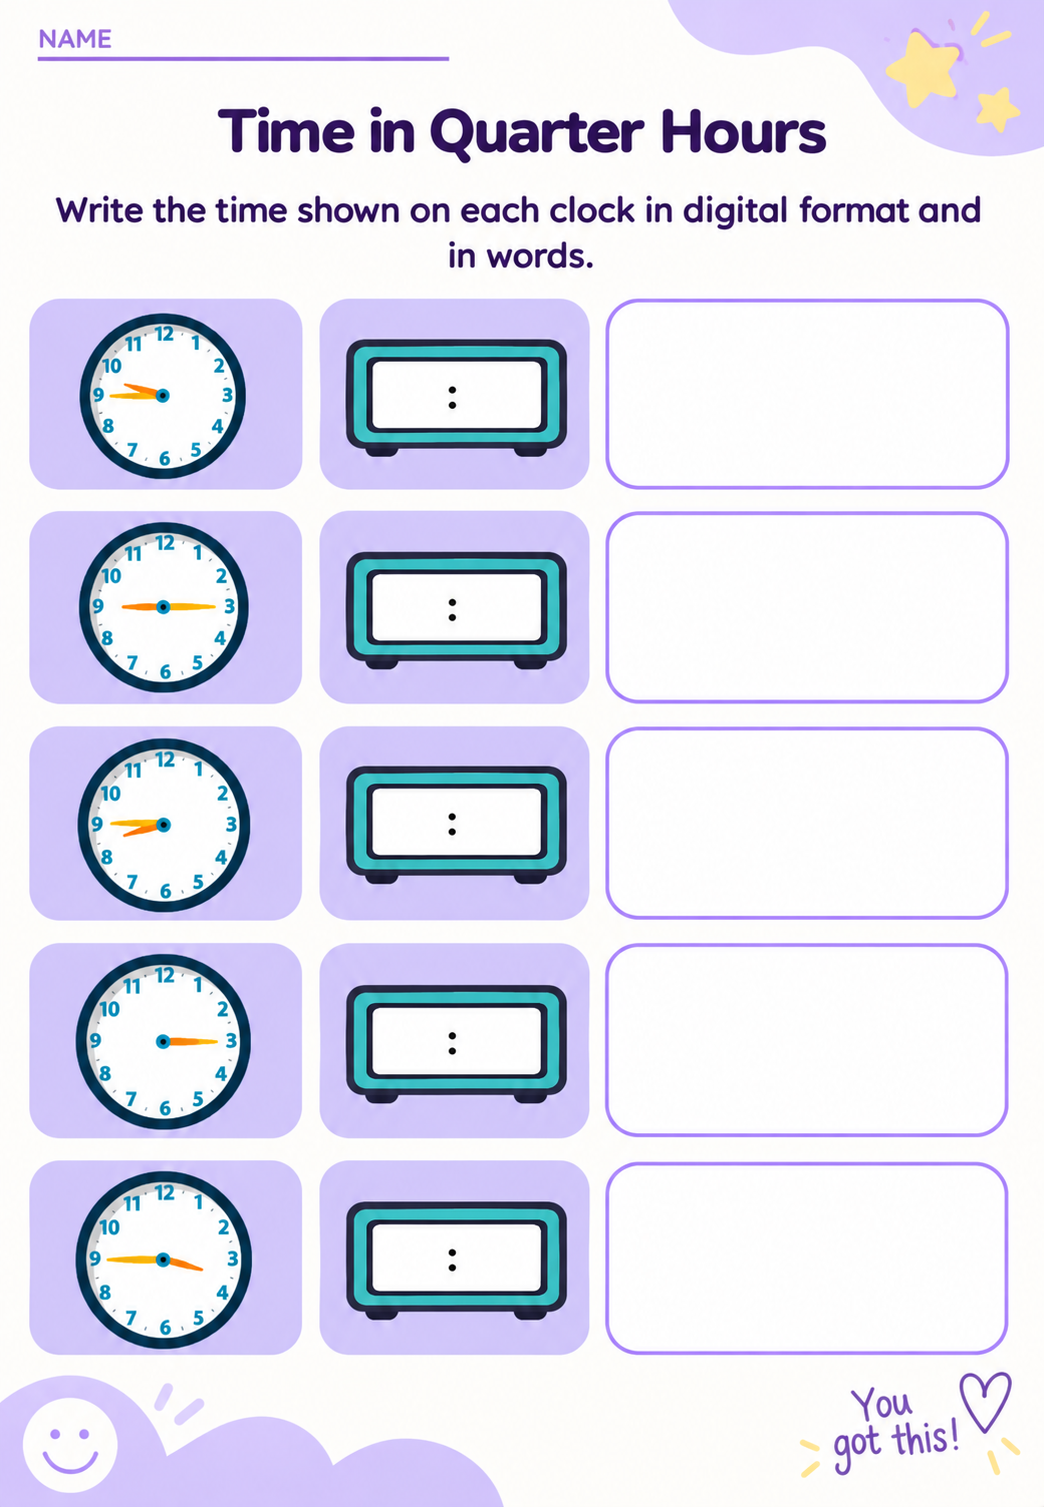
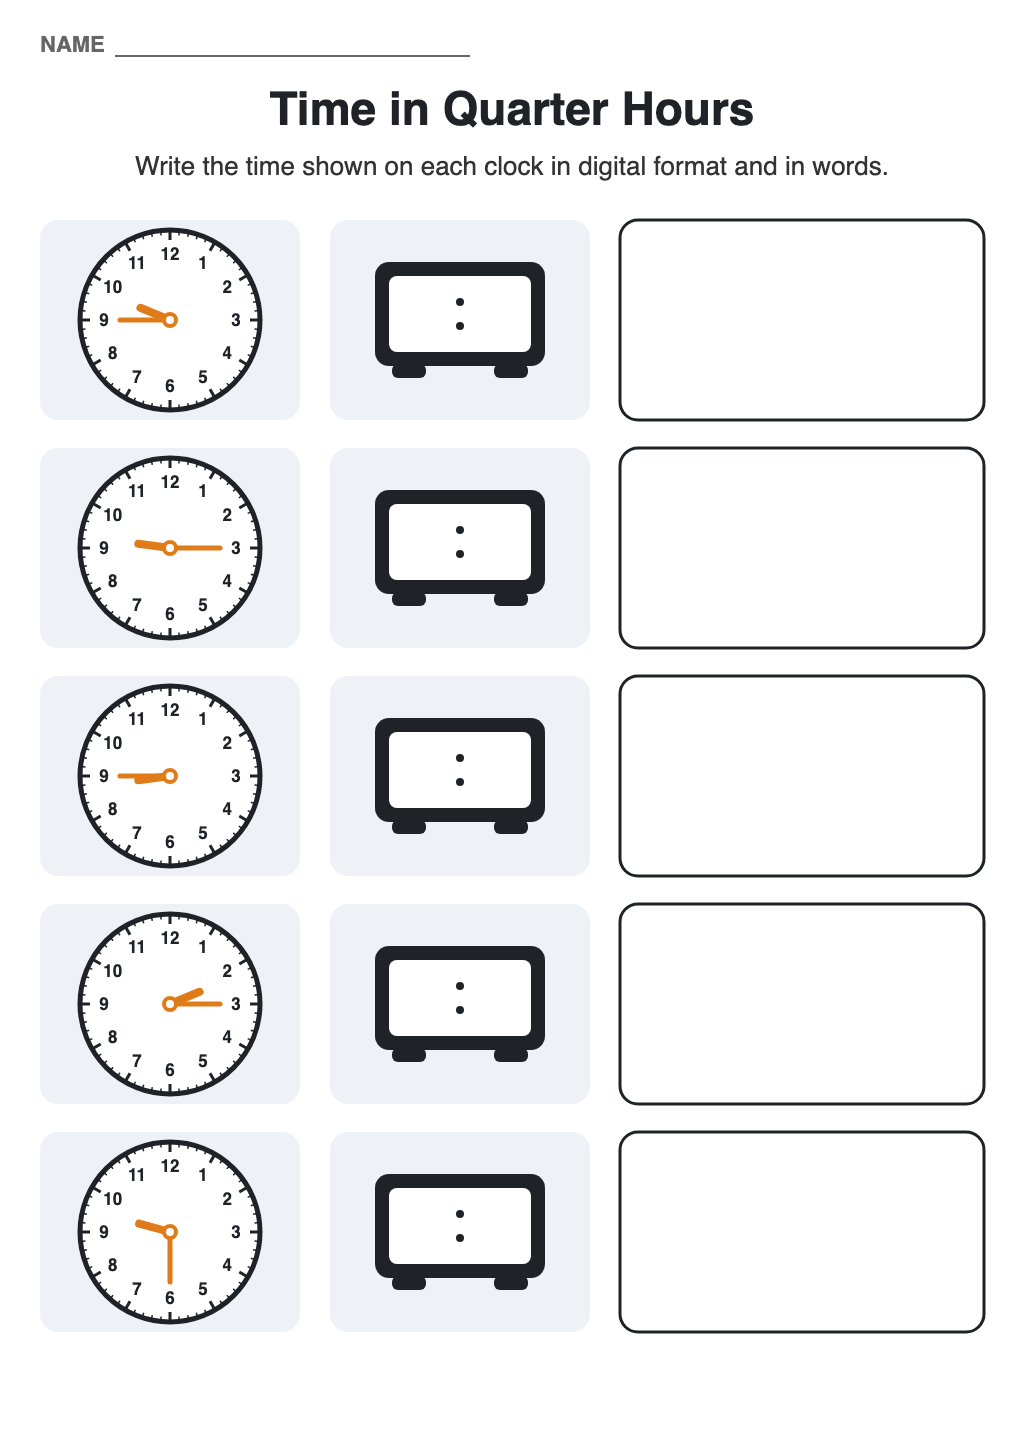
Use the redrawn sheet as the main Quarter Hours worksheet
Claude-Session: https://claude.ai/code/session_01C19qvcYRfjDHpgap8Ugmjw

diff --git a/analog-to-digital.html b/analog-to-digital.html
@@ -40,7 +40,7 @@
   <ol class="steps">
     <li class="step">
       <h2>Worksheet</h2>
-      <a href="analog-to-digital/worksheet.png" target="_blank"><img src="analog-to-digital/worksheet.png" alt="Time in Quarter Hours worksheet: five analog clocks, each with a blank digital clock and a blank box for the time in words"></a>
+      <a href="analog-to-digital/worksheet.png" target="_blank"><img src="analog-to-digital/worksheet.png" alt="Time in Quarter Hours worksheet: five analog clocks showing quarter past, half past and quarter to, each with a blank digital clock and a blank box for the time in words"></a>
       <p>Five analog clocks showing quarter past, half past and quarter to. For each one, students write the time on the digital clock and again in words in the box.</p>
       <a class="btn" href="analog-to-digital/worksheet.png" download="analog-to-digital-worksheet.png">Download worksheet</a>
     </li>
@@ -58,12 +58,6 @@
       <a href="analog-to-digital/extension.png" target="_blank"><img src="analog-to-digital/extension.png" alt="Extension worksheet: five analog clocks showing quarter to 12, quarter past 6, half past 11, quarter to 1 and quarter past 9, each with a blank digital clock and a blank box for the words"></a>
       <p>A second sheet with five new times for students who finish early. It includes quarter to 12 and quarter to 1, where the hour hand sits just before the 12 or the 1, which catches out students who read the hour hand too quickly.</p>
       <a class="btn" href="analog-to-digital/extension.png" download="analog-to-digital-extension.png">Download extension</a>
-    </li>
-    <li class="step">
-      <h2>Worksheet, redrawn</h2>
-      <a href="analog-to-digital/worksheet-redrawn.png" target="_blank"><img src="analog-to-digital/worksheet-redrawn.png" alt="Redrawn Time in Quarter Hours worksheet in the same style as the extension sheet: five analog clocks, each with a blank digital clock and a blank box for the words"></a>
-      <p>The same five-clock worksheet redrawn to match the extension sheet, so the two print as a matching pair.</p>
-      <a class="btn" href="analog-to-digital/worksheet-redrawn.png" download="analog-to-digital-worksheet-redrawn.png">Download redrawn worksheet</a>
     </li>
   </ol>
 </div>
